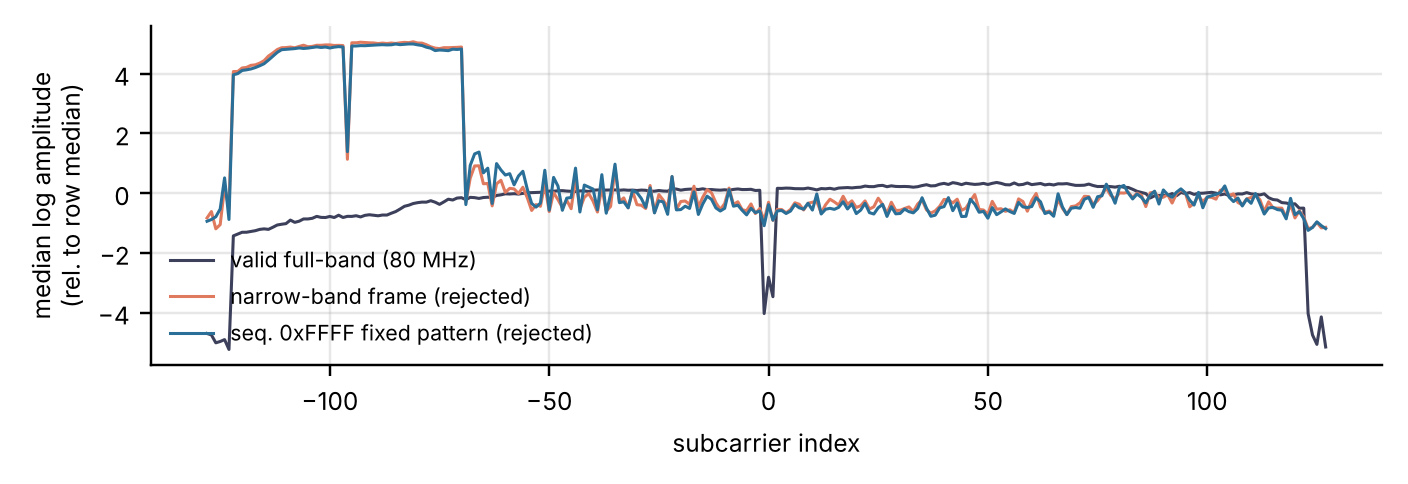
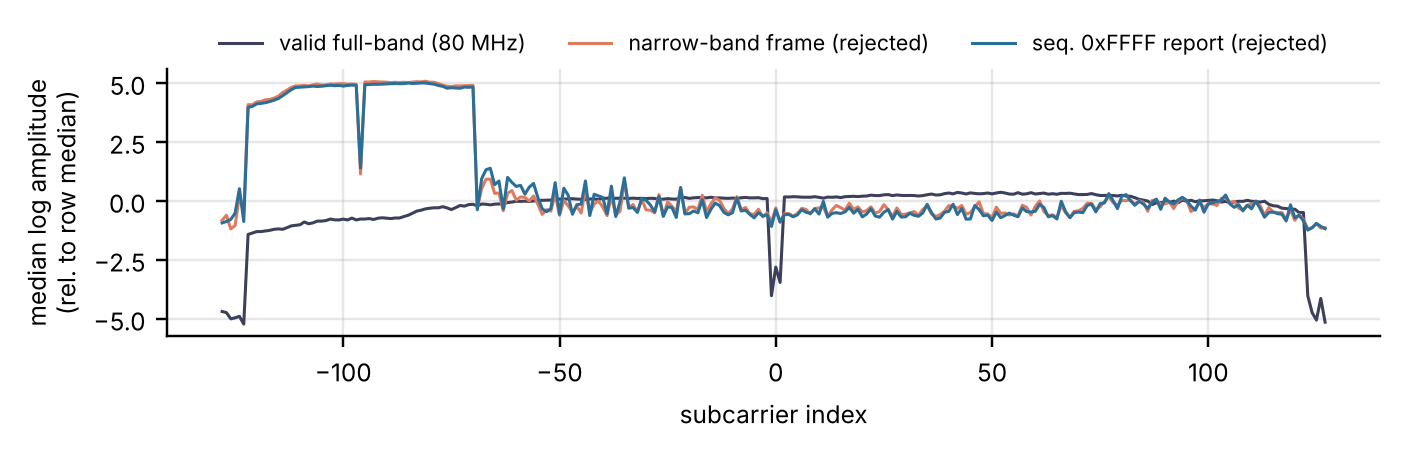
docs: corrected 0xFFFF analysis (narrow-band reports), report numbers, figure and docs
git rebase --continue Conflicts:

diff --git a/scripts/01_data_inspection.py b/scripts/01_data_inspection.py
@@ -30,7 +30,7 @@ def main():
     add = lambda s, room, label, v: rows.append(dict(statistic=s, room=room, label=label, value=float(v)))
 
     # 1) 0xFFFF reports vs normal reports (Room A, every 10th development capture)
-    pf, pn, ratio, timing = [], [], [], []
+    pf, pn, ratio, timing, band = [], [], [], [], []
     for r in dev[dev.room == "A"].iloc[::10].itertuples():
         cap = read_pcap(str(Path(P["room_A_raw"]) / r.source_relpath))
         pk, _ = decode_payloads(cap.payloads)
@@ -39,6 +39,8 @@ def main():
             continue
         A = np.abs(pk.csi)
         pf.append(np.median(scale_free_log(A[ff]), 0)[DATA_BINS])
+        prof = np.fft.fftshift(np.median(scale_free_log(A[ff]), 0))   # subcarrier order -128..127
+        band.append(np.median(prof[8:58]) - np.median(prof[138:228]))  # lowest 20 MHz quarter vs rest
         pn.append(np.median(scale_free_log(A[~ff]), 0)[DATA_BINS])
         ratio.append(np.median(A[~ff][:, DATA_BINS]) / max(np.median(A[ff][:, DATA_BINS]), 1e-30))
         t = cap.timestamps[pk.packet_index]
@@ -48,6 +50,7 @@ def main():
     add("cross_capture_profile_corr_normal", "A", "all", cc(pn))
     add("median_amplitude_ratio_normal_over_0xFFFF", "A", "all", np.median(ratio))
     add("median_capture_duration_s", "A", "all", np.median([d for _, d in timing]))
+    add("0xFFFF_lowest_quarter_minus_rest_log_amp", "A", "all", np.median(band))
 
     # 2) narrow-band share per room/class (from the QC table, all development captures)
     qc = pd.read_csv(Path(P["results"]) / "qc_captures.csv", keep_default_na=False)

diff --git a/src/stride/cleaning.py b/src/stride/cleaning.py
@@ -6,10 +6,12 @@ format criterion, applied identically to both rooms where the information exists
   malformed            truncated / wrong-length packet (Room A reader)
   non_finite           NaN or inf amplitude
   all_zero             every subcarrier is exactly zero
-  fixed_pattern        Room A reports carrying sequence number 0xFFFF. Measured on
-                       development data: their profile is the same fixed pattern in
-                       every capture (cross-capture corr. 0.98) and is independent of
-                       activity, with no 80 MHz guard nulls -> zero-information.
+  fixed_pattern        Room A reports carrying sequence number 0xFFFF (strictly alternating
+                       with normal reports). Measured on development data, their energy is
+                       confined to the lowest 20 MHz quarter, like the narrow-band frames below,
+                       so they are not valid 80 MHz observations. (The reason code keeps its
+                       original name; the shared band mask is why their profile is nearly identical
+                       in every capture, cross-capture corr. 0.99.)
   partial_band         energy is confined to one or two 20 MHz quarters of the
                        80 MHz band (narrow-band frames in the ping/pong exchange).
                        Such rows carry noise on >= half of the 256 subcarriers, so they

diff --git a/scripts/60_report_numbers.py b/scripts/60_report_numbers.py
@@ -129,7 +129,7 @@ def main():
     (out / "tab_perclass.tex").write_text("\n".join(lines[:-1]) + "\n")
     # QC table
     qcs = pd.read_csv(res / "qc_summary.csv", index_col=0)
-    rows = [("decoded observations", "n_decoded"), ("rejected: seq.\\ 0xFFFF fixed pattern", "rej_fixed_pattern"),
+    rows = [("decoded observations", "n_decoded"), ("rejected: seq.\\ 0xFFFF (narrow-band) report", "rej_fixed_pattern"),
             ("rejected: narrow-band (20\\,MHz) frame", "rej_partial_band"),
             ("rejected: duplicate / non-finite / zero", None), ("valid full-band observations", "n_valid")]
     lines = []
@@ -153,6 +153,7 @@ def main():
     N["insCorrFixed"] = f"{g('cross_capture_profile_corr_0xFFFF'):.2f}"
     N["insCorrNormal"] = f"{g('cross_capture_profile_corr_normal'):.2f}"
     N["insAmpRatio"] = f"{g('median_amplitude_ratio_normal_over_0xFFFF'):.0f}"
+    N["insFfffBand"] = f"{g('0xFFFF_lowest_quarter_minus_rest_log_amp'):.1f}"
     for lab, k in [("sit", "Sit"), ("stand", "Stand"), ("lying", "Lying"), ("walk", "Walk"), ("empty", "Empty")]:
         N[f"insNb{k}"] = f"{100 * g('narrowband_share_of_non_fixed_rows', 'B', lab):.1f}"
         N[f"insMeRaw{k}"] = f"{g('motion_energy_naive_median', 'B', lab):.2f}"

diff --git a/scripts/50_make_figures.py b/scripts/50_make_figures.py
@@ -149,15 +149,15 @@ def qc_types(cfg, out):
     fig, ax = plt.subplots(figsize=(6.4, 2.2))
     sc = np.arange(-128, 128)
     for arr, lab, col in [(full, "valid full-band (80 MHz)", C_ALL), (narrow, "narrow-band frame (rejected)", C_SHARED),
-                          (fixed, "seq. 0xFFFF fixed pattern (rejected)", C_EXCL)]:
+                          (fixed, "seq. 0xFFFF report (rejected)", C_EXCL)]:
         prof = np.fft.fftshift(np.median(np.concatenate(arr), 0))
         ax.plot(sc, prof, color=col, lw=1, label=lab)
     ax.set_xlabel("subcarrier index")
     ax.set_ylabel("median log amplitude\n(rel. to row median)")
-    ax.legend(frameon=False, fontsize=7, loc="lower left")
+    ax.legend(frameon=False, fontsize=7, loc="upper center", bbox_to_anchor=(0.5, 1.22), ncol=3)
     ax.grid(alpha=0.3)
     fig.tight_layout()
-    fig.savefig(out / "qc_observation_types.png", dpi=220)
+    fig.savefig(out / "qc_observation_types.png", dpi=220, bbox_inches="tight")
 
 
 def denoise_example(cfg, out):

diff --git a/report/tab_qc.tex b/report/tab_qc.tex
@@ -1,5 +1,5 @@
 decoded observations & 234,239 & 600,500 \\
-rejected: seq.\ 0xFFFF fixed pattern & 118,013 & 0 \\
+rejected: seq.\ 0xFFFF (narrow-band) report & 118,013 & 0 \\
 rejected: narrow-band (20\,MHz) frame & 47,359 & 39,196 \\
 rejected: duplicate / non-finite / zero & 0 & 0 \\
 valid full-band observations & 68,867 & 561,304 \\

diff --git a/report/numbers.tex b/report/numbers.tex
@@ -42,6 +42,7 @@
 \newcommand{\insCorrFixed}{0.99}
 \newcommand{\insCorrNormal}{0.22}
 \newcommand{\insAmpRatio}{34}
+\newcommand{\insFfffBand}{5.3}
 \newcommand{\insNbSit}{12.7}
 \newcommand{\insMeRawSit}{0.79}
 \newcommand{\insMeDnSit}{0.43}

diff --git a/docs/data_findings.md b/docs/data_findings.md
@@ -14,10 +14,10 @@ Every number here is produced by `scripts/01_data_inspection.py` (`results/inspe
 | Kind | How identified | Evidence that it is (in)valid |
 |---|---|---|
 | Full-band 80 MHz CSI | >= 3 of the four 20 MHz quarters carry energy; guard bins 123-133 deep | smooth across subcarriers; walk >> stand temporal variance |
-| `0xFFFF` reports (Room A only) | Nexmon sequence field = 0xFFFF; strictly alternate with normal reports | the **same fixed profile in every capture** (mean cross-capture corr. 0.99 vs 0.22 for normal reports), activity-independent temporal variance, no guard nulls, ~34x lower amplitude -> zero-information |
+| `0xFFFF` reports (Room A only) | Nexmon sequence field = 0xFFFF; strictly alternate with normal reports | energy confined to the lowest 20 MHz quarter (like the narrow-band frames), no guard nulls; the band mask makes the profile nearly identical in every capture (corr. 0.99 vs 0.22 for normal reports) and the median data-subcarrier amplitude ~34x lower → not valid 80 MHz observations |
 | Narrow-band (20 MHz) frames (both rooms) | energy in only one quarter (Room A: subcarriers -128..-65; Room B: other quarters) | the other three quarters are at the noise floor (~5 log units lower) -> not a valid 256-subcarrier observation |
 
-Rejected (QC, both splits, all captures): Room A 118,013 fixed-pattern + 47,359 narrow-band of
+Rejected (QC, both splits, all captures): Room A 118,013 seq.-0xFFFF + 47,359 other narrow-band of
 234,239 decoded; Room B 39,196 narrow-band of 600,500 rows. No NaN, zero or duplicate rows.
 
 **Why this matters beyond cleanliness.** In Room B the narrow-band share depends on the class:
